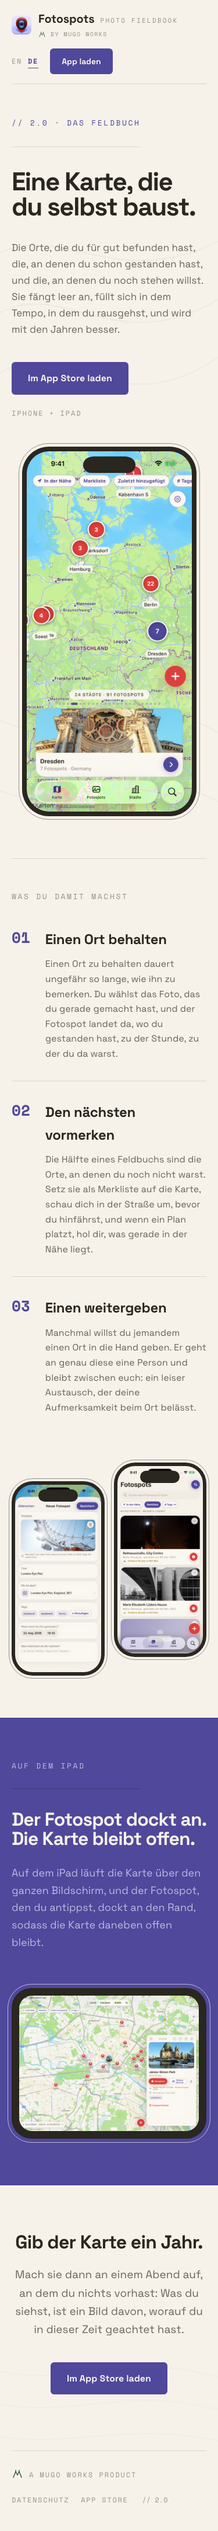
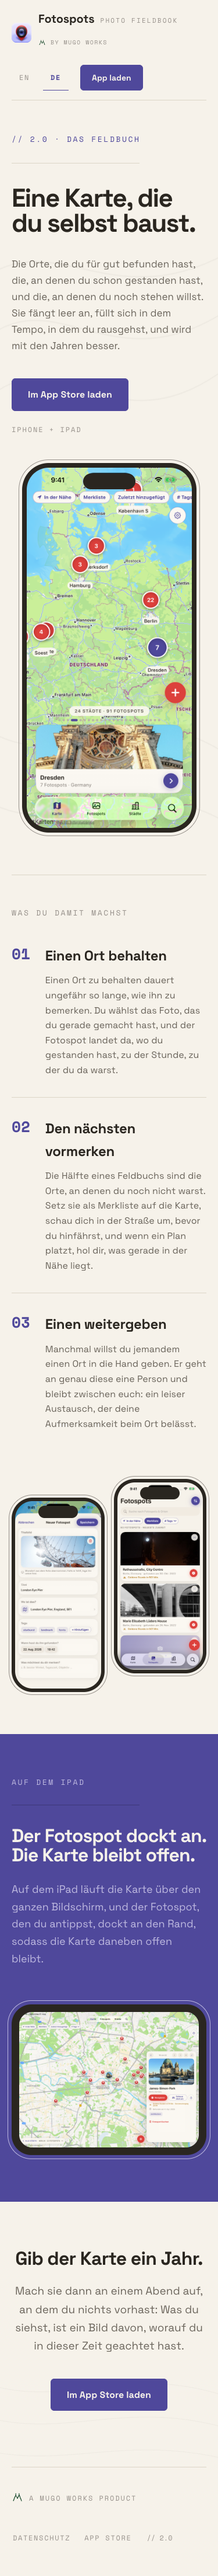
fix(landing): localize header/footer alt text and enlarge mobile touch targets [photospots-landing-page-91e.4]
Add DE-language img variants for the header app icon and footer mugo mark so their alt text is localized like every other language-swapped element. Bring .fs-lang-btn, .fs-mugo-lockup, .fs-footer-links a, and .fs-footer-mugo up to the 44px touch-target minimum within the mobile breakpoint, matching the CTA buttons. Re-capture the 375px landing screenshots whose header/footer regions changed size.

Bead: photospots-landing-page-91e.4

diff --git a/index.html b/index.html
@@ -48,7 +48,8 @@
 
     <header class="fs-header">
       <div class="fs-header-lockup">
-        <img class="fs-header-icon" src="assets/app-icon.png" width="34" height="34" alt="Fotospots app icon">
+        <img class="fs-l-en fs-header-icon" src="assets/app-icon.png" width="34" height="34" alt="Fotospots app icon">
+        <img class="fs-l-de fs-header-icon" src="assets/app-icon.png" width="34" height="34" alt="Fotospots App-Icon">
         <div class="fs-header-titles">
           <div class="fs-wordmark-row">
             <span class="fs-wordmark">Fotospots</span>
@@ -229,7 +230,8 @@
       <div class="fs-hairline"></div>
       <div class="fs-footer-row">
         <a class="fs-footer-mugo" href="https://mugoworks.com">
-          <img class="fs-footer-mugo-mark" src="assets/mark-on-light.svg" width="20" height="20" alt="mugo works mark">
+          <img class="fs-l-en fs-footer-mugo-mark" src="assets/mark-on-light.svg" width="20" height="20" alt="mugo works mark">
+          <img class="fs-l-de fs-footer-mugo-mark" src="assets/mark-on-light.svg" width="20" height="20" alt="mugo works Zeichen">
           <span class="fs-footer-mugo-label">A MUGO WORKS PRODUCT</span>
         </a>
         <div class="fs-footer-links">

diff --git a/css/style.css b/css/style.css
@@ -711,6 +711,19 @@ html[data-lang="de"] .fs-lang-btn[data-lang="de"] {
     padding-bottom: 16px;
   }
 
+  .fs-lang-btn {
+    display: inline-flex;
+    align-items: center;
+    justify-content: center;
+    min-width: 44px;
+    min-height: 44px;
+    padding: 0 8px;
+  }
+
+  .fs-mugo-lockup {
+    min-height: 44px;
+  }
+
   .fs-h1 {
     font-size: 44px;
   }
@@ -750,6 +763,17 @@ html[data-lang="de"] .fs-lang-btn[data-lang="de"] {
 
   .fs-footer-links {
     gap: 20px;
+  }
+
+  .fs-footer-links a {
+    display: inline-flex;
+    align-items: center;
+    min-height: 44px;
+    padding: 0 2px;
+  }
+
+  .fs-footer-mugo {
+    min-height: 44px;
   }
 }
 
